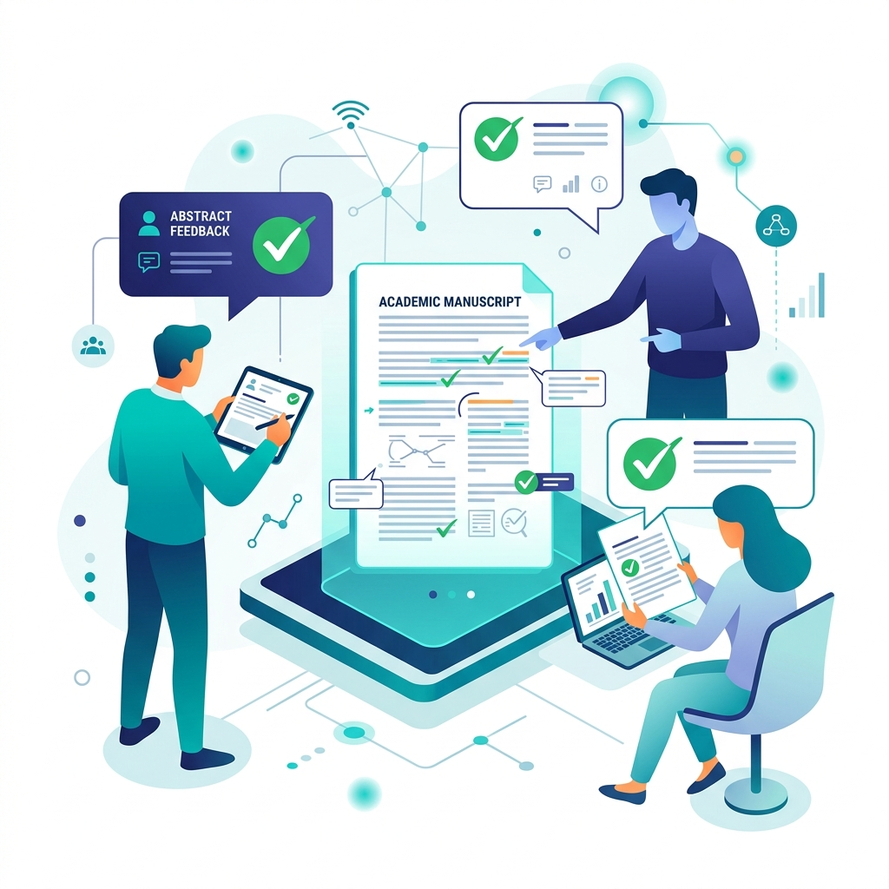
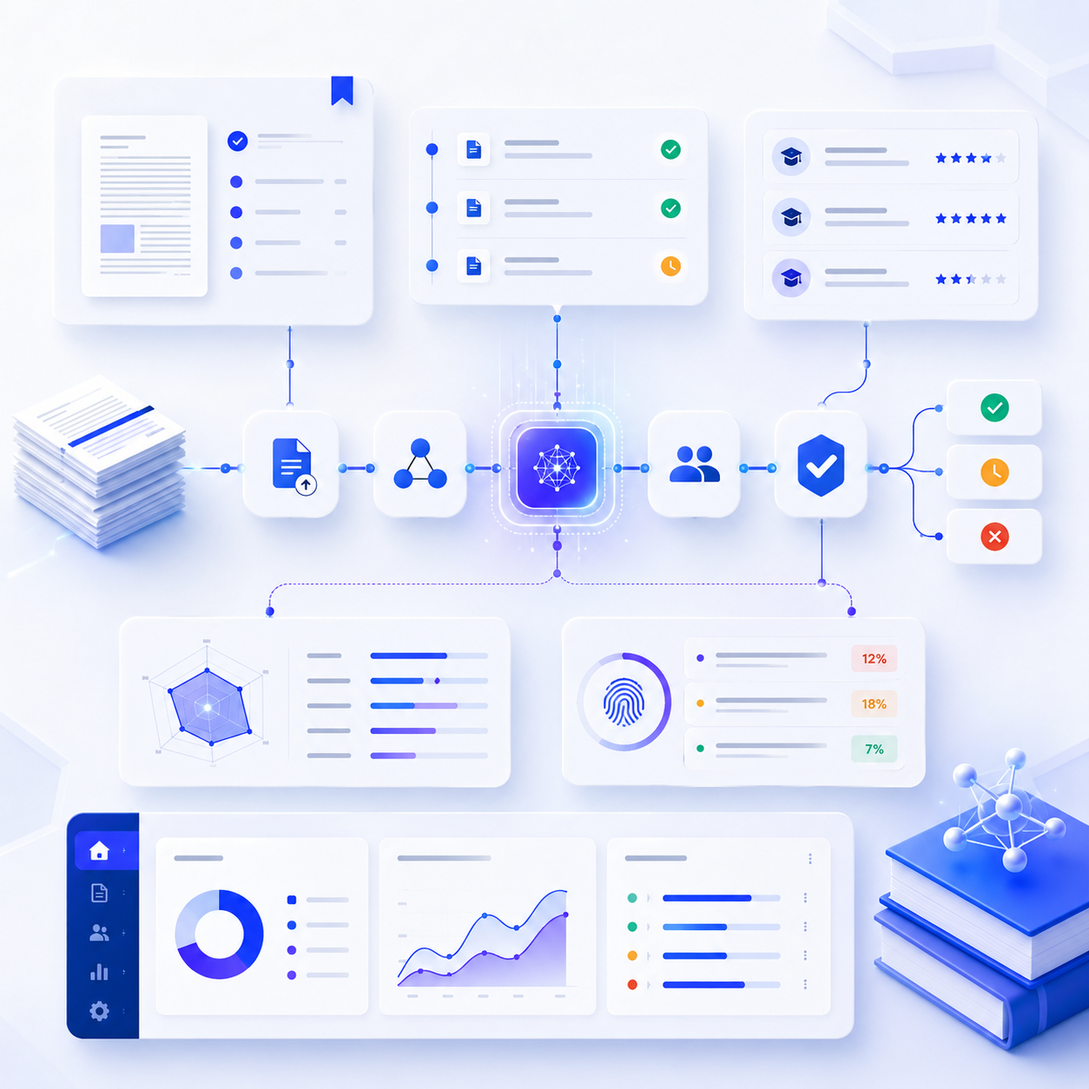
feat(blog): add peer review and AI conference management blogs

diff --git a/lib/blog/data.ts b/lib/blog/data.ts
@@ -1388,6 +1388,262 @@ export const blogPosts: BlogPost[] = [
       <p><a href="/signup"><strong>Get Started with AcadFlow →</strong></a></p>
     `,
   },
+
+  {
+    id: "6",
+    slug: "how-peer-review-works-academic-conferences",
+    title:
+      "How Peer Review Works in Academic Conferences (Complete Beginner's Guide)",
+    excerpt:
+      "Learn how peer review works in academic conferences — from submission to decision. Understand review types, reviewer responsibilities, common challenges, and how AI is modernizing the process.",
+    coverImage: "/blog/peer-review.png",
+    author: AUTHORS.adnan,
+    date: "2026-05-19",
+    updatedAt: "2026-05-19",
+    seo: {
+      metaTitle:
+        "How Peer Review Works in Academic Conferences (Beginner's Guide)",
+      metaDescription:
+        "Learn how peer review works in academic conferences, including review types, workflows, reviewer responsibilities, and AI-assisted systems.",
+      keywords: [
+        "peer review process",
+        "conference peer review",
+        "academic conference review system",
+        "double blind review",
+        "AI peer review tools",
+      ],
+    },
+    category: "conferences",
+    tags: ["Peer Review", "Conference Management", "AI", "Academic Workflow"],
+    featured: false,
+    content: `
+      <h2 id="introduction">Introduction</h2>
+      <p>If you've ever submitted a research paper to an academic conference, you've encountered peer review — the process that determines whether your work gets accepted, revised, or rejected. But if you're new to academia, the entire process can feel like a black box. You submit your paper, wait weeks (sometimes months), and eventually receive a decision along with feedback from anonymous reviewers. What actually happens during that waiting period?</p>
+      <p>Peer review is the backbone of academic quality control. It's the mechanism through which the research community ensures that published and presented work meets standards of rigor, originality, and significance. Without it, conferences would have no reliable way to distinguish groundbreaking research from poorly designed studies or recycled ideas.</p>
+      <p>But peer review isn't just about gatekeeping. At its best, it's a collaborative process that improves the quality of research. Constructive reviewer feedback helps authors strengthen their methodology, clarify their arguments, and situate their work within the broader literature. It's one of the few mechanisms in academia where experts voluntarily invest their time to help other researchers — even anonymously.</p>
+      <p>In this guide, we'll break down exactly how peer review works in academic conferences — step by step. Whether you're a graduate student preparing your first submission, a new reviewer wondering what's expected of you, or an organizer designing your review process, this guide will give you a clear, practical understanding of the entire system.</p>
+
+      <h2 id="featured-snippet">What is Peer Review?</h2>
+      <p>Peer review is the evaluation of academic work by independent experts (peers) in the same field. In the context of academic conferences, peer review is the process by which submitted research papers are assessed for quality, originality, methodology, and relevance before being accepted for presentation. Reviewers — typically researchers with expertise in the paper's topic — provide structured feedback and recommendations that inform the program committee's accept or reject decisions.</p>
+
+      <h2 id="summary">Quick Summary</h2>
+      <ul>
+        <li>Peer review is how academic conferences evaluate submitted research before acceptance</li>
+        <li>The three main types are single-blind, double-blind, and open review — each with distinct trade-offs</li>
+        <li>The workflow follows a structured pipeline: submission → screening → assignment → review → decision → notification</li>
+        <li>Reviewers evaluate papers for novelty, methodology, clarity, and ethical standards</li>
+        <li>Common problems include reviewer bias, delays, inconsistency, and workload overload</li>
+        <li>AI tools are improving peer review through automated paper analysis, smart reviewer matching, and similarity detection</li>
+        <li>Modern platforms like AcadFlow integrate AI directly into the review workflow to support — not replace — human judgment</li>
+      </ul>
+
+      <hr />
+
+      <h2 id="what-is-peer-review">What is Peer Review in Academic Conferences?</h2>
+      <p>Peer review in academic conferences is a structured evaluation process where submitted research papers are assessed by qualified experts before being accepted for presentation or publication in conference proceedings.</p>
+      <p>Unlike journal peer review — which can take months or even years and often involves multiple rounds of revision — conference peer review typically operates on a compressed timeline. Most conferences complete their entire review cycle in 4–8 weeks, from submission deadline to decision notification. This creates both urgency and constraints: reviewers have less time per paper, and there's usually only one round of review with no revision opportunity.</p>
+
+      <h3>The Purpose of Conference Peer Review</h3>
+      <p>Conference peer review serves several interconnected purposes:</p>
+      <ul>
+        <li><strong>Quality control</strong> — Ensuring that accepted papers meet minimum standards of academic rigor, methodological soundness, and writing quality</li>
+        <li><strong>Originality verification</strong> — Confirming that the work represents a genuine contribution to the field, rather than a rehash of existing research</li>
+        <li><strong>Relevance filtering</strong> — Verifying that submissions align with the conference's scope and themes</li>
+        <li><strong>Constructive improvement</strong> — Providing authors with expert feedback that helps them strengthen their work, regardless of the accept/reject outcome</li>
+        <li><strong>Academic credibility</strong> — Establishing the conference's reputation as a venue that presents vetted, high-quality research</li>
+      </ul>
+      <p>Without peer review, a conference is essentially an open-mic event — anyone can present anything. Peer review transforms it into a curated academic program where attendees can trust that the presented research has been evaluated by experts. For a broader view of how peer review fits into the conference lifecycle, see our <a href="/blog/manage-academic-conferences-efficiently">complete conference management guide</a>.</p>
+
+      <hr />
+
+      <h2 id="why-important">Why Peer Review is Important</h2>
+      <p>Peer review is more than an administrative step — it's a foundational mechanism that protects the integrity of academic knowledge. Here's why it matters:</p>
+
+      <h3>Academic Integrity</h3>
+      <p>Peer review acts as a safeguard against fraudulent, fabricated, or misleading research entering the academic record. Reviewers check whether claims are supported by evidence, whether data appears authentic, and whether the methodology could reasonably produce the reported results. While no system is perfect, peer review catches a significant proportion of problematic work before it reaches the public stage.</p>
+
+      <h3>Fairness and Equal Opportunity</h3>
+      <p>A well-designed peer review process evaluates research on its merits — not on the reputation of the author's institution, their career stage, or their geographic location. Double-blind review, where both authors and reviewers are anonymous, is specifically designed to minimize these biases. When the system works as intended, a brilliant paper from a first-year PhD student at a small university receives the same evaluation standard as one from a senior professor at a prestigious institution.</p>
+
+      <h3>Quality Assurance for Attendees</h3>
+      <p>Conference attendees — researchers, practitioners, students — invest time and money to participate. They expect that the papers being presented have been vetted for quality. Peer review is what separates a credible academic conference from an unfiltered content dump. It's the quality signal that makes the event worth attending.</p>
+
+      <h3>Constructive Feedback Loop</h3>
+      <p>Even rejected papers benefit from peer review. Thoughtful reviewer feedback identifies weaknesses in methodology, gaps in the literature review, unclear writing, or unconvincing arguments. Authors can use this feedback to improve their work before submitting to another venue. This feedback loop is one of the most valuable — and most underappreciated — aspects of the peer review system.</p>
+
+      <hr />
+
+      <h2 id="types">Types of Peer Review</h2>
+      <p>Not all peer review processes are the same. The level of anonymity between authors and reviewers varies, and each model carries different trade-offs. Here are the three primary types used in academic conferences:</p>
+
+      <h3>1. Single-Blind Review</h3>
+      <p><strong>How it works:</strong> Reviewers know the identity and affiliation of the authors, but the authors do not know who reviewed their paper.</p>
+      <table>
+        <thead>
+          <tr><th>Aspect</th><th>Detail</th></tr>
+        </thead>
+        <tbody>
+          <tr><td><strong>Pros</strong></td><td>Reviewers can consider the author's track record and context; simpler to administer</td></tr>
+          <tr><td><strong>Cons</strong></td><td>Risk of prestige bias — papers from well-known researchers or top institutions may receive more favorable reviews regardless of quality</td></tr>
+          <tr><td><strong>Common in</strong></td><td>Some engineering and applied science conferences</td></tr>
+        </tbody>
+      </table>
+
+      <h3>2. Double-Blind Review</h3>
+      <p><strong>How it works:</strong> Both the authors and the reviewers are anonymous to each other. Authors must remove identifying information from their submissions (names, affiliations, self-citations that reveal identity).</p>
+      <table>
+        <thead>
+          <tr><th>Aspect</th><th>Detail</th></tr>
+        </thead>
+        <tbody>
+          <tr><td><strong>Pros</strong></td><td>Minimizes bias based on author reputation, institution, or demographics; promotes evaluation based purely on research quality</td></tr>
+          <tr><td><strong>Cons</strong></td><td>Perfect anonymity is difficult to achieve — experienced reviewers can often guess authorship from writing style, topic, or cited work; adds administrative complexity for anonymization</td></tr>
+          <tr><td><strong>Common in</strong></td><td>Most major CS, AI, and social science conferences (NeurIPS, CVPR, ACL, CHI)</td></tr>
+        </tbody>
+      </table>
+
+      <h3>3. Open Review</h3>
+      <p><strong>How it works:</strong> Both authors and reviewers are identified, and reviews may be made publicly available. Some open review systems also allow community members (beyond assigned reviewers) to comment on submissions.</p>
+      <table>
+        <thead>
+          <tr><th>Aspect</th><th>Detail</th></tr>
+        </thead>
+        <tbody>
+          <tr><td><strong>Pros</strong></td><td>Increases accountability — reviewers are less likely to write dismissive or lazy reviews when their name is attached; promotes transparency and community discussion</td></tr>
+          <tr><td><strong>Cons</strong></td><td>Junior reviewers may hesitate to criticize senior researchers; potential for social pressure to influence reviews; risk of retaliation</td></tr>
+          <tr><td><strong>Common in</strong></td><td>ICLR (via OpenReview.net), some interdisciplinary workshops</td></tr>
+        </tbody>
+      </table>
+
+      <blockquote>
+        <p><strong>Which type is best?</strong> There's no universal answer. Double-blind is the most widely used in competitive conferences because it prioritizes fairness. Open review is gaining traction in communities that value transparency. The right choice depends on your conference's culture, size, and goals.</p>
+      </blockquote>
+
+      <hr />
+
+      <h2 id="workflow">Step-by-Step Peer Review Workflow</h2>
+      <p>Regardless of the review type, most academic conferences follow a similar structured workflow. Here's the complete pipeline from submission to final acceptance:</p>
+
+      <h3>Step 1: Paper Submission</h3>
+      <p>Authors submit their research papers through the conference's submission portal before the published deadline. Submissions typically include the paper (PDF), title, abstract, keywords, author information, and track selection. A good submission system sends automatic confirmation emails and allows authors to update their submission until the deadline closes. This eliminates the chaos of email-based submissions that plagues many conferences — a problem we cover in detail in our guide on <a href="/blog/common-mistakes-academic-conference-management">common conference management mistakes</a>.</p>
+
+      <h3>Step 2: Initial Screening</h3>
+      <p>Before papers reach reviewers, the program chair or organizing committee performs an initial screening. This desk review checks for basic compliance: Does the paper follow the required format? Is it within the page limit? Is it anonymized correctly (for blind review)? Is it within the conference's scope? Papers that fail basic requirements may be desk-rejected at this stage, saving reviewer time for papers that meet the minimum bar.</p>
+
+      <h3>Step 3: Reviewer Assignment</h3>
+      <p>This is one of the most critical — and most challenging — steps. The program chair must match each paper with 2–3 qualified reviewers who have relevant expertise, no conflicts of interest, and balanced workloads. Traditional manual assignment involves reading abstracts and cross-referencing reviewer profiles — a process that can take days for a medium-sized conference. Modern platforms use keyword-based or AI-powered matching to dramatically accelerate this step while improving match quality.</p>
+
+      <h3>Step 4: Review Phase</h3>
+      <p>Assigned reviewers read the papers and submit their evaluations through a structured review form. Typical review forms ask reviewers to rate the paper on dimensions like novelty, technical soundness, clarity of writing, significance of contribution, and adequacy of evaluation. Reviewers also provide written comments — both for the authors and confidential notes for the program committee. This phase typically lasts 2–4 weeks, with automated reminders sent to reviewers as the deadline approaches.</p>
+
+      <h3>Step 5: Decision Making</h3>
+      <p>Once reviews are collected, the program committee meets to make final accept/reject decisions. For papers where reviewers agree, the decision is usually straightforward. For papers with conflicting reviews (one strong accept and one reject), the committee may assign a meta-reviewer or engage in discussion to reach a consensus. Some conferences use area chairs to manage subsets of papers and provide meta-reviews that synthesize the individual reviews.</p>
+
+      <h3>Step 6: Author Notification</h3>
+      <p>Authors receive their decision along with the reviewer feedback. A well-run conference provides detailed, constructive feedback regardless of the outcome — helping authors understand exactly why their paper was accepted or rejected and what they can improve. Automated notification systems ensure that every author receives their decision simultaneously, maintaining fairness and reducing the organizer's email burden.</p>
+
+      <h3>Step 7: Camera-Ready Submission</h3>
+      <p>Authors of accepted papers submit their final, camera-ready versions — incorporating any required revisions based on reviewer feedback. This version is what appears in the conference proceedings. The camera-ready phase typically has a tight deadline (1–2 weeks) and strict formatting requirements.</p>
+
+      <hr />
+
+      <h2 id="reviewer-role">Responsibilities of Reviewers</h2>
+      <p>Being a peer reviewer is one of the most important service roles in academia. Reviewers are the human engine that powers the entire system. Here's what good reviewing looks like:</p>
+
+      <h3>Evaluating Novelty and Contribution</h3>
+      <p>The primary question: Does this paper contribute something new to the field? Reviewers assess whether the research question is original, whether the approach is novel, and whether the findings advance understanding beyond what's already published. This requires the reviewer to be familiar with the current state of the art — which is why expertise-based assignment is so critical.</p>
+
+      <h3>Checking Methodology</h3>
+      <p>Sound methodology is non-negotiable. Reviewers examine whether the research design is appropriate for the claims being made, whether the experimental setup is rigorous, whether the data analysis is correct, and whether the results actually support the conclusions. A paper with interesting ideas but flawed methodology should not pass review.</p>
+
+      <h3>Providing Constructive Feedback</h3>
+      <p>The best reviewers don't just identify problems — they suggest solutions. Instead of "the evaluation is weak," a constructive reviewer writes: "The evaluation would be significantly strengthened by including comparison with [specific baseline] and reporting [specific metric]." This kind of feedback transforms peer review from a judgment mechanism into a mentoring opportunity.</p>
+
+      <h3>Upholding Ethical Standards</h3>
+      <p>Reviewers are expected to maintain confidentiality (never sharing or discussing submissions), declare conflicts of interest, evaluate work objectively regardless of personal relationships, and flag any suspected ethical violations (fabricated data, undisclosed conflicts, plagiarism). These ethical obligations are what make peer review trustworthy.</p>
+
+      <hr />
+
+      <h2 id="problems">Common Problems in Peer Review</h2>
+      <p>Despite its importance, peer review is far from perfect. Understanding its weaknesses is essential for improving it.</p>
+
+      <h3>Reviewer Bias</h3>
+      <p>Even in double-blind review, biases can creep in. Reviewers may unconsciously favor papers from prestigious institutions (when anonymization is imperfect), prefer research that aligns with their own methodological approach, or be harsher toward work in subfields they personally consider less important. Systemic biases — geographic, linguistic, and demographic — are well-documented in the peer review literature.</p>
+
+      <h3>Delays and Missed Deadlines</h3>
+      <p>Reviewers are volunteers with their own research, teaching, and administrative responsibilities. Late reviews are endemic in academic conferences, often causing cascading delays that push back decision notifications, camera-ready deadlines, and ultimately the conference schedule itself. Without automated tracking and reminders, organizers spend disproportionate time chasing overdue reviews.</p>
+
+      <h3>Inconsistent Review Quality</h3>
+      <p>The quality of reviews varies enormously. Some reviewers write detailed, multi-page assessments with specific, actionable feedback. Others submit three sentences that could apply to any paper in the field. When one reviewer writes a thoughtful critique and another submits a superficial assessment, the program committee is left with an uneven information base for decision-making.</p>
+
+      <h3>Reviewer Overload</h3>
+      <p>The volume of academic submissions is growing faster than the reviewer pool. Top conferences receive thousands of submissions, and the same pool of qualified reviewers is stretched across multiple venues. Reviewer fatigue leads to rushed evaluations, declining acceptance rates for review invitations, and an increasing burden on the researchers who do agree to serve. This is a systemic problem that <a href="/blog/top-academic-conference-management-tools-2026">modern conference management tools</a> are specifically designed to address through workload balancing and automation.</p>
+
+      <hr />
+
+      <h2 id="ai">How AI is Improving Peer Review</h2>
+      <p>The challenges described above — bias, delays, inconsistency, overload — are not just complaints. They're structural problems that scale with the growth of academic research. And they are precisely the problems that AI is beginning to solve, not by replacing human reviewers, but by augmenting their capabilities and removing bottlenecks from the workflow.</p>
+
+      <h3>AI Paper Reviewer Assistant</h3>
+      <p>One of the most impactful AI applications in peer review is the automated paper analysis assistant. Rather than a reviewer starting from scratch with a blank review form, an AI assistant can read the submitted paper and generate a structured pre-analysis within seconds — identifying the paper's core contribution, methodological approach, potential strengths, possible weaknesses, and writing quality indicators.</p>
+      <p>This doesn't write the review. What it does is give the reviewer a structured starting point — a preliminary map of the paper that highlights areas worth closer attention. The reviewer then applies their domain expertise to evaluate the aspects that AI can't assess: the significance of the research question, the validity of the experimental design in context, and the broader implications for the field. The result is more thorough, more consistent reviews completed in less time.</p>
+      <p>Platforms like <strong>AcadFlow</strong> integrate this capability directly into the reviewer dashboard. A reviewer clicks a single button and receives an AI-generated analysis alongside the paper — summary, identified strengths and weaknesses, grammar assessment, and a preliminary confidence-scored recommendation. It's designed as decision <em>support</em>, not a decision <em>maker</em>.</p>
+
+      <h3>Smart Reviewer Assignment</h3>
+      <p>Traditional reviewer assignment relies on keyword matching and the program chair's personal knowledge of the reviewer pool. AI-powered assignment systems go deeper — they analyze the full semantic content of each submission and match it against reviewer expertise profiles built from declared interests, publication history, and past review assignments.</p>
+      <p>The practical difference is significant. Instead of a paper about "federated learning for healthcare data" being assigned to anyone who listed "machine learning" as a keyword, an AI system can match it to a reviewer who specifically works on privacy-preserving distributed computing in clinical settings. Better matches produce better reviews — more substantive feedback, more accurate assessments, and fewer instances of reviewers evaluating papers outside their genuine expertise.</p>
+      <p>AcadFlow's smart assignment system generates ranked reviewer suggestions with relevance scores and automatic conflict-of-interest detection, reducing the assignment process from days of manual work to minutes of informed decision-making. For more on how AI is transforming conference workflows, see our detailed article on <a href="/blog/ai-academic-conference-management">AI in academic conference management</a>.</p>
+
+      <h3>AI Similarity Detection</h3>
+      <p>Traditional plagiarism detection compares text against databases using lexical matching — it catches copy-paste but misses paraphrased content, structural similarity, and conceptual overlap. AI-powered similarity detection uses language models trained on academic literature to identify multiple layers of overlap: direct text matches, paraphrased content that retains the same structure and meaning, and papers that follow suspiciously similar organizational patterns.</p>
+      <p>For conference organizers, this serves as an early quality gate. Rather than discovering originality issues during peer review — or worse, after acceptance — AI similarity detection flags potential concerns at the submission stage. A paper with 5% similarity is routine; a paper with 40% similarity warrants immediate attention. This gives organizers actionable intelligence before the review process even begins.</p>
+      <p>AcadFlow's built-in similarity detection runs automatically on submitted papers, providing organizers with a quantified similarity score and a detailed breakdown of flagged sections — all within the same dashboard they use for managing submissions and reviews.</p>
+
+      <hr />
+
+      <h2 id="best-practices">Best Practices for Organizers</h2>
+      <p>If you're organizing a conference and designing your peer review process, here are actionable practices that lead to better outcomes:</p>
+      <ul>
+        <li><strong>Use structured review forms</strong> — Don't give reviewers a blank text box. Provide specific evaluation criteria (novelty, methodology, clarity, significance) with rating scales and dedicated comment sections for each dimension</li>
+        <li><strong>Set clear reviewer guidelines</strong> — Provide explicit instructions on what constitutes a good review, including expected length, tone, and the importance of constructive feedback even for rejected papers</li>
+        <li><strong>Assign 3 reviewers per paper minimum</strong> — Two agreeing reviewers provide a reliable signal. A third reviewer breaks ties and adds perspective. This is the minimum for defensible decisions</li>
+        <li><strong>Use automated deadline reminders</strong> — Don't rely on manual follow-ups. Configure automated reminders at 7 days, 3 days, and 1 day before the review deadline. This alone can reduce late reviews by 40–60%</li>
+        <li><strong>Balance reviewer workloads</strong> — No reviewer should be assigned more papers than they can thoroughly evaluate. A common target is 3–5 papers per reviewer per conference, depending on paper length and review depth</li>
+        <li><strong>Detect conflicts of interest systematically</strong> — Don't rely on self-reporting alone. Use automated conflict detection based on co-authorship history and institutional affiliations</li>
+        <li><strong>Provide feedback with every decision</strong> — Even rejected papers should receive constructive feedback. Authors who receive helpful feedback are more likely to submit improved work to your next conference</li>
+        <li><strong>Leverage AI where it helps</strong> — Use AI paper analysis to support reviewers, AI matching to improve assignments, and similarity detection to catch issues early. These tools don't replace human judgment — they make it more effective</li>
+      </ul>
+
+      <hr />
+
+      <h2 id="future">Future of Peer Review</h2>
+      <p>The peer review system has remained fundamentally unchanged for decades — but the pressures it faces (growing submission volumes, reviewer shortages, demands for transparency) are forcing evolution. Here's where the field is heading:</p>
+
+      <h3>AI-Assisted Review Workflows</h3>
+      <p>The future is not AI replacing reviewers — it's AI integrated seamlessly into every stage of the review pipeline. A paper is submitted → AI generates a preliminary analysis and similarity report → the system suggests optimal reviewer assignments → reviewers receive AI pre-analysis alongside the manuscript → the program committee reviews aggregated AI insights during decision meetings. Each stage builds on the previous one, creating a compound intelligence effect that's far more powerful than any individual feature.</p>
+
+      <h3>Workflow Automation at Scale</h3>
+      <p>As conferences grow, manual management of the review process becomes unsustainable. Automated systems that handle reviewer invitations, deadline tracking, reminder sequences, decision notifications, and camera-ready collection will become the standard — not the exception. Organizers who still manage reviews through email and spreadsheets will find it increasingly difficult to maintain quality at scale.</p>
+
+      <h3>Scalable, Platform-Based Systems</h3>
+      <p>The trend is clearly moving toward unified platforms that handle the entire conference lifecycle — submissions, reviews, scheduling, payments, and certificates — in one integrated system. Fragmented workflows (EasyChair for reviews + Google Forms for registration + Excel for scheduling + Canva for certificates) are being replaced by purpose-built platforms that eliminate the manual glue work between disconnected tools. This shift is already well underway, as we document in our <a href="/blog/top-academic-conference-management-tools-2026">comparison of conference management tools</a>.</p>
+
+      <hr />
+
+      <h2 id="cta">Simplify Peer Review Workflows</h2>
+      <p>If you're organizing an academic conference and want a peer review process that's fair, efficient, and supported by modern AI tools — you don't need to build it from scratch.</p>
+      <p><strong>AcadFlow</strong> is a modern conference management platform with peer review workflows designed specifically for academic conferences. The platform integrates AI capabilities directly into the organizer and reviewer experience:</p>
+      <ul>
+        <li><strong>Smart Reviewer Assignment</strong> — AI-powered matching that pairs papers with the most qualified reviewers based on expertise, not just keywords</li>
+        <li><strong>AI Paper Reviewer Assistant</strong> — One-click paper analysis that gives reviewers a structured starting point, improving review quality and consistency</li>
+        <li><strong>Similarity Detection</strong> — Automated originality checks that flag potential issues before the review process begins</li>
+        <li><strong>Automated Workflow</strong> — Deadline reminders, status notifications, and decision communications that run on autopilot</li>
+      </ul>
+      <p>Every AI feature is designed as decision support — providing structured insights while keeping the final call where it belongs: with human experts.</p>
+      <p>Set up your conference's peer review process in minutes, not days.</p>
+      <p><a href="/signup"><strong>Get Started with AcadFlow — It's Free →</strong></a></p>
+    `,
+  },
 ];
 
 // ─── Helper functions ────────────────────────────────────────────────────────
